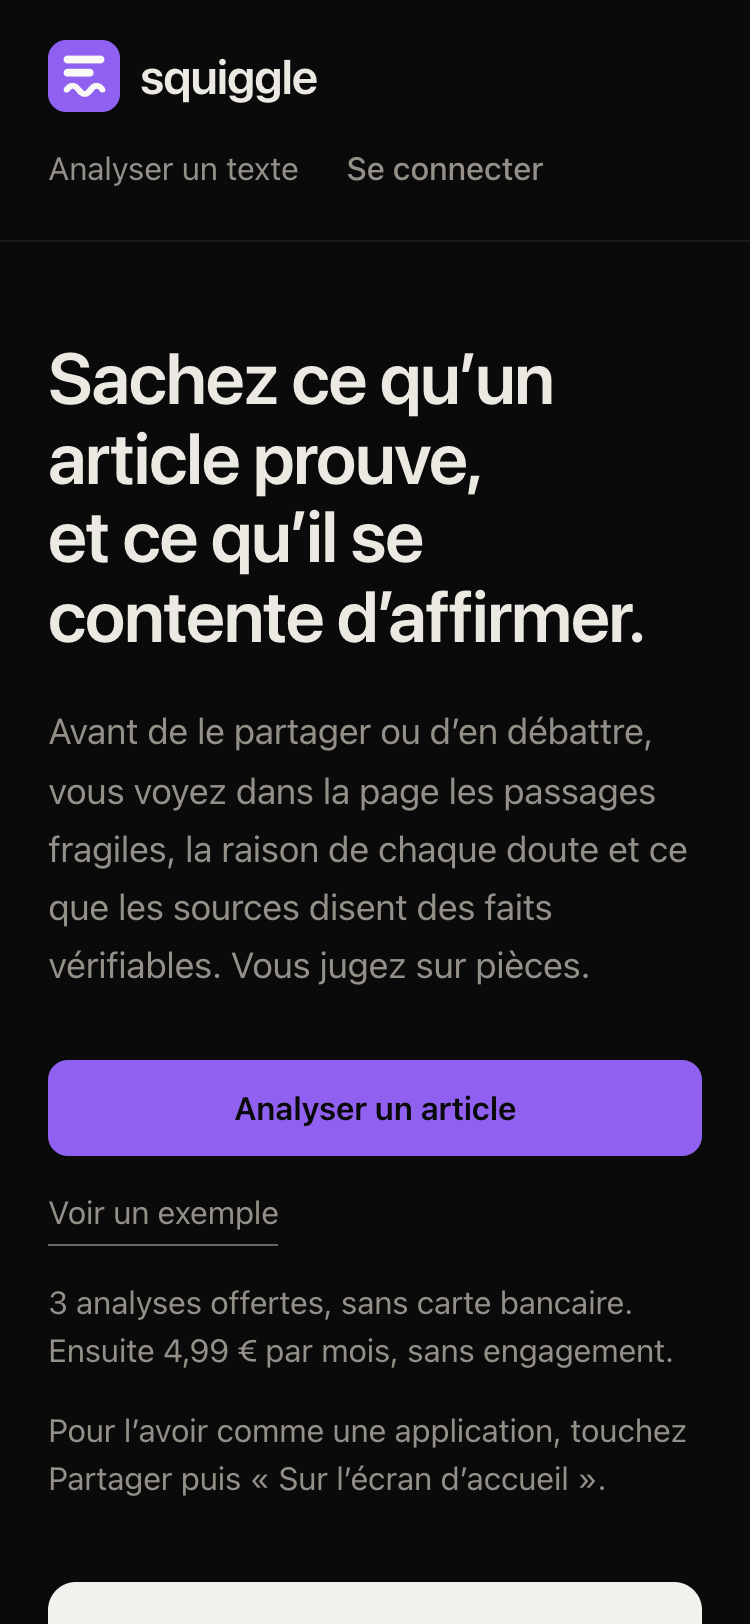
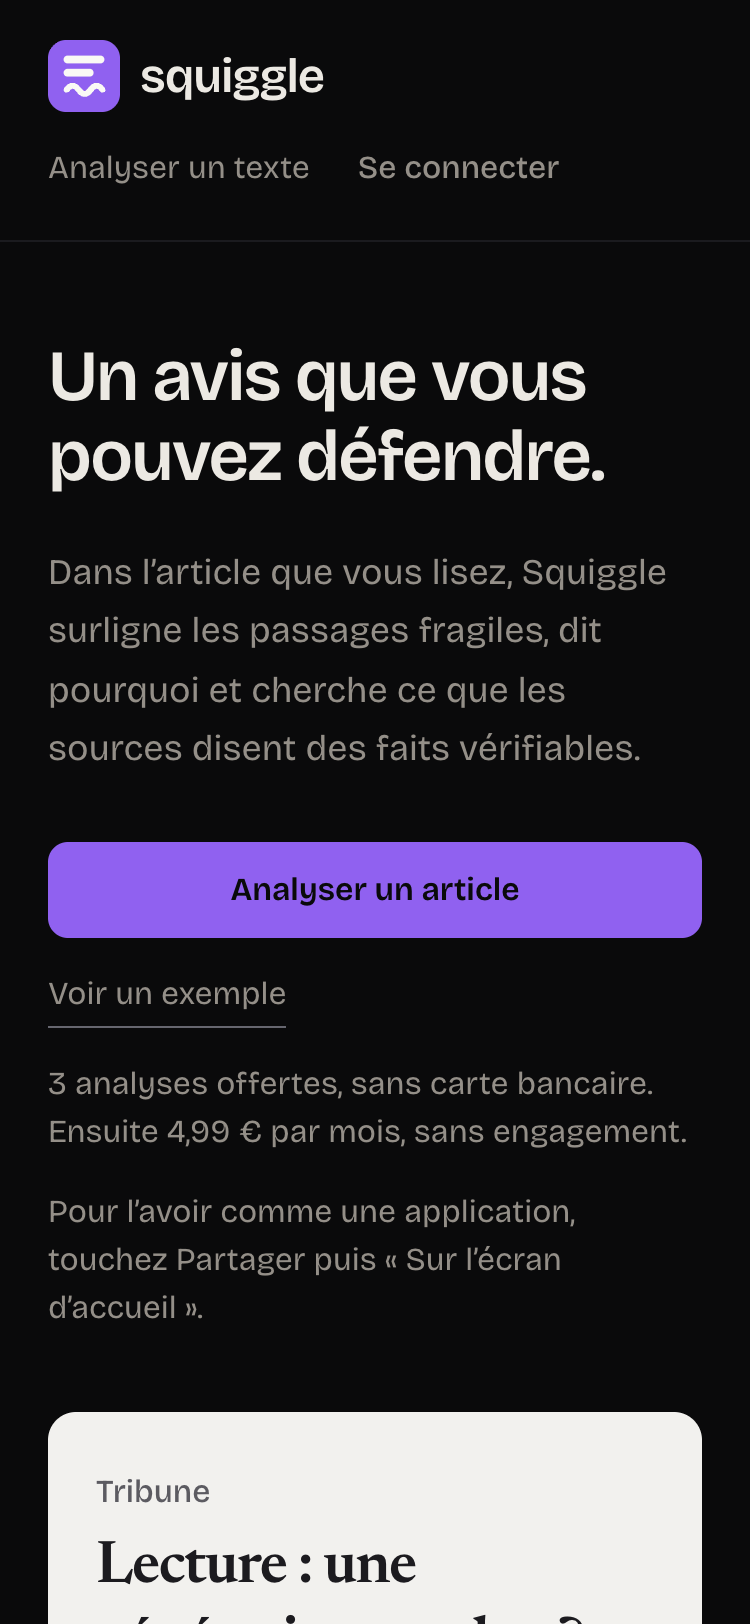
Web: lead the hero with what the reader gets, an opinion they can defend
The headline described what the extension checks, and the page title, the
link preview and the site footer repeated it ("ce que l'article prouve, ce
qu'il affirme"). The hero now leads with the result in the reader's life:
"Un avis que vous pouvez défendre." It holds in two lines from 375 to
1440 px, where the previous one took four on a phone.

The subtitle says what Squiggle does in the article you are reading, which
is what makes that opinion defensible: it highlights the fragile passages,
says why, and looks up what sources say about the verifiable facts. The
title, Open Graph title, meta description and the footer brand line follow
the new copy, and og.png is rendered again from the hero.

The lead gets text-wrap: pretty so its last line does not end on a lone
word, and the iOS install hint keeps its closing guillemet on the same line
as the words it quotes.

diff --git a/web/index.html b/web/index.html
@@ -5,19 +5,19 @@
     <meta name="viewport" content="width=device-width, initial-scale=1.0" />
     <meta
       name="description"
-      content="Avant de croire ou partager un article, voyez ses passages fragiles, la raison de chaque doute et ce qu’en disent les sources. 3 analyses offertes."
+      content="Dans l’article que vous lisez, Squiggle surligne les passages fragiles, dit pourquoi et cherche ce qu’en disent les sources. 3 analyses offertes."
     />
     <meta name="robots" content="index, follow" />
     <meta name="theme-color" content="#0a0a0b" />
-    <title>Squiggle : ce que l’article prouve, ce qu’il affirme</title>
+    <title>Squiggle : un avis que vous pouvez défendre</title>
     <meta property="og:type" content="website" />
     <meta property="og:site_name" content="Squiggle" />
     <meta property="og:locale" content="fr_FR" />
     <meta property="og:url" content="https://squiggle.fr/" />
-    <meta property="og:title" content="Squiggle : ce que l’article prouve, ce qu’il affirme" />
+    <meta property="og:title" content="Squiggle : un avis que vous pouvez défendre" />
     <meta
       property="og:description"
-      content="Avant de croire ou partager un article, voyez ses passages fragiles, la raison de chaque doute et ce qu’en disent les sources. 3 analyses offertes."
+      content="Dans l’article que vous lisez, Squiggle surligne les passages fragiles, dit pourquoi et cherche ce qu’en disent les sources. 3 analyses offertes."
     />
     <meta property="og:image" content="https://squiggle.fr/og.png" />
     <meta property="og:image:width" content="1200" />

diff --git a/web/src/pages/Accueil.tsx b/web/src/pages/Accueil.tsx
@@ -89,12 +89,11 @@ export function Accueil() {
       <div className={`${PAGE} py-12 md:py-16`}>
         <HeroScene>
           <h1 className="m-0 font-display text-4xl font-semibold leading-[1.1] tracking-tight text-balance md:text-5xl xl:text-6xl">
-            Sachez ce qu’un article prouve, et ce qu’il se contente d’affirmer.
+            Un avis que vous pouvez défendre.
           </h1>
-          <p className={`mt-6 text-lg leading-relaxed text-muted md:text-xl ${MEASURE}`}>
-            Avant de le partager ou d’en débattre, vous voyez dans la page les passages fragiles, la
-            raison de chaque doute et ce que les sources disent des faits vérifiables. Vous jugez sur
-            pièces.
+          <p className={`mt-6 text-lg leading-relaxed text-pretty text-muted md:text-xl ${MEASURE}`}>
+            Dans l’article que vous lisez, Squiggle surligne les passages fragiles, dit pourquoi et cherche
+            ce que les sources disent des faits vérifiables.
           </p>
 
           {/* One primary action: the store this browser installs from, or, where no
@@ -130,7 +129,7 @@ export function Accueil() {
           </p>
           {!installUrl && install?.kind === 'ios' ? (
             <p className="mt-4 text-base text-muted">
-              Pour l’avoir comme une application, touchez Partager puis « Sur l’écran d’accueil ».
+              Pour l’avoir comme une application, touchez Partager puis « Sur l’écran d’accueil ».
             </p>
           ) : null}
           {!installUrl && !mobile ? (

diff --git a/web/tests/Accueil.test.tsx b/web/tests/Accueil.test.tsx
@@ -27,7 +27,7 @@ describe('Accueil', () => {
     expect(
       screen.getByRole('heading', {
         level: 1,
-        name: 'Sachez ce qu’un article prouve, et ce qu’il se contente d’affirmer.',
+        name: 'Un avis que vous pouvez défendre.',
       }),
     ).toBeInTheDocument();
     expect(screen.getByRole('link', { name: 'Se connecter' })).toHaveAttribute('href', '/connexion');
@@ -247,7 +247,7 @@ describe('Accueil', () => {
       if (p.closest('[data-ui]')) continue;
       expect(p.className, p.textContent ?? '').not.toMatch(/\btext-(xs|sm)\b|text-\[[\d.]+px\]/);
     }
-    const lead = screen.getByText(/Avant de le partager ou d’en débattre/);
+    const lead = screen.getByText(/Dans l’article que vous lisez/);
     expect(lead.className).toContain('max-w-[68ch]');
     const privacy = within(screen.getByRole('region', { name: 'Vos données' })).getByText(/transite par notre serveur/);
     expect(privacy.className).toContain('max-w-[68ch]');

diff --git a/web/src/components/Layout.tsx b/web/src/components/Layout.tsx
@@ -41,7 +41,7 @@ export function Layout({ children }: { children: ReactNode }) {
 
       <footer className="mt-16 border-t border-border bg-surface">
         <div className="mx-auto flex w-full max-w-5xl flex-col gap-2 px-5 py-8 text-sm text-muted sm:flex-row sm:items-center sm:justify-between">
-          <p>Squiggle. Ce que l’article prouve, ce qu’il affirme. Aucune publicité, aucun traceur.</p>
+          <p>Squiggle. Un avis que vous pouvez défendre. Aucune publicité, aucun traceur.</p>
           <nav className="flex flex-wrap gap-4" aria-label="Navigation de pied de page">
             <Link to="/transparence" className="hover:text-foreground">
               Transparence
